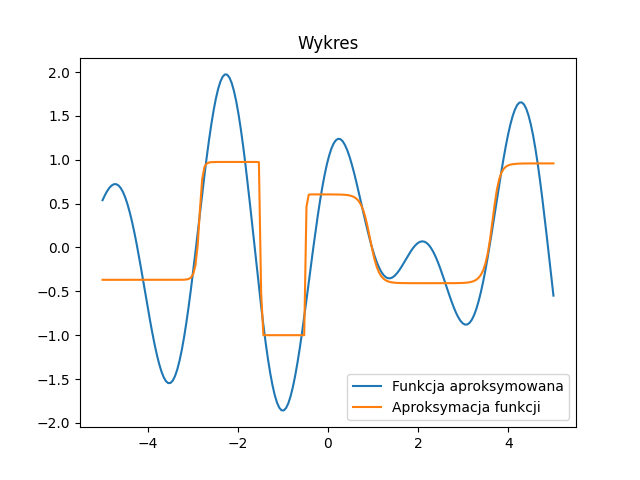
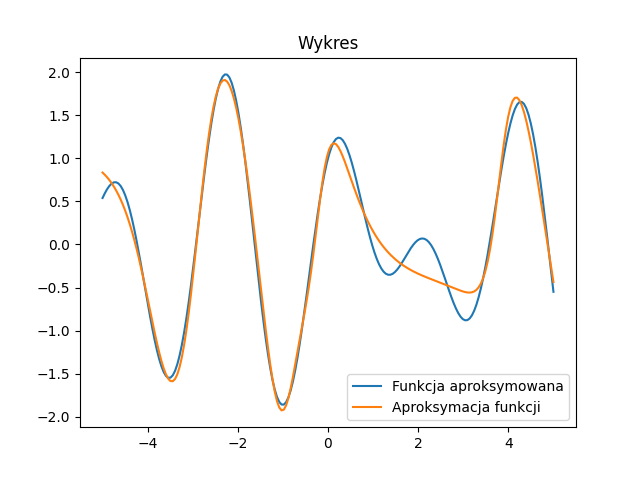
Mistake found

diff --git a/two_layer_perceptron.py b/two_layer_perceptron.py
@@ -40,7 +40,7 @@ class TwoLayerPerceptron:
 
     def _output_layer_output(self, hidden_layer_output):
         sumed = np.dot(self._output_layer_weights, np.vstack((hidden_layer_output, 1.0)))
-        return np.take(self._activation_function(sumed), 0)
+        return np.take(sumed, 0)
 
     def _backpropagation(self, hidden_layer_output, output, y_expected, x):
         # delta = self._error_function_derivative(y_expected, output) * self._activation_function_derivative(output)
